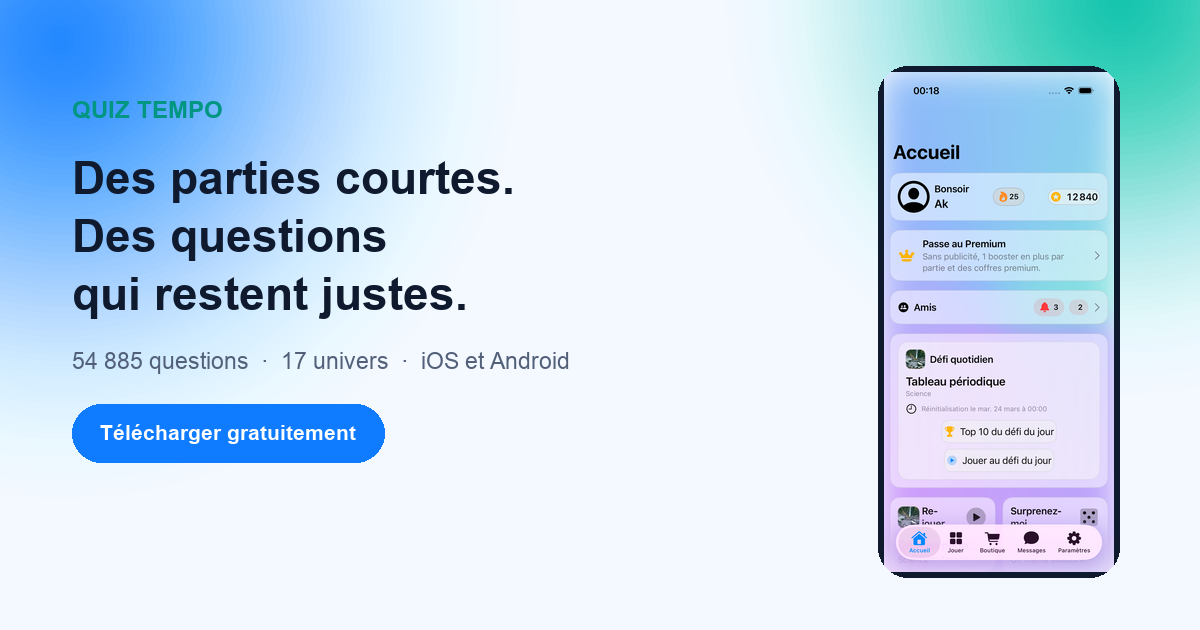
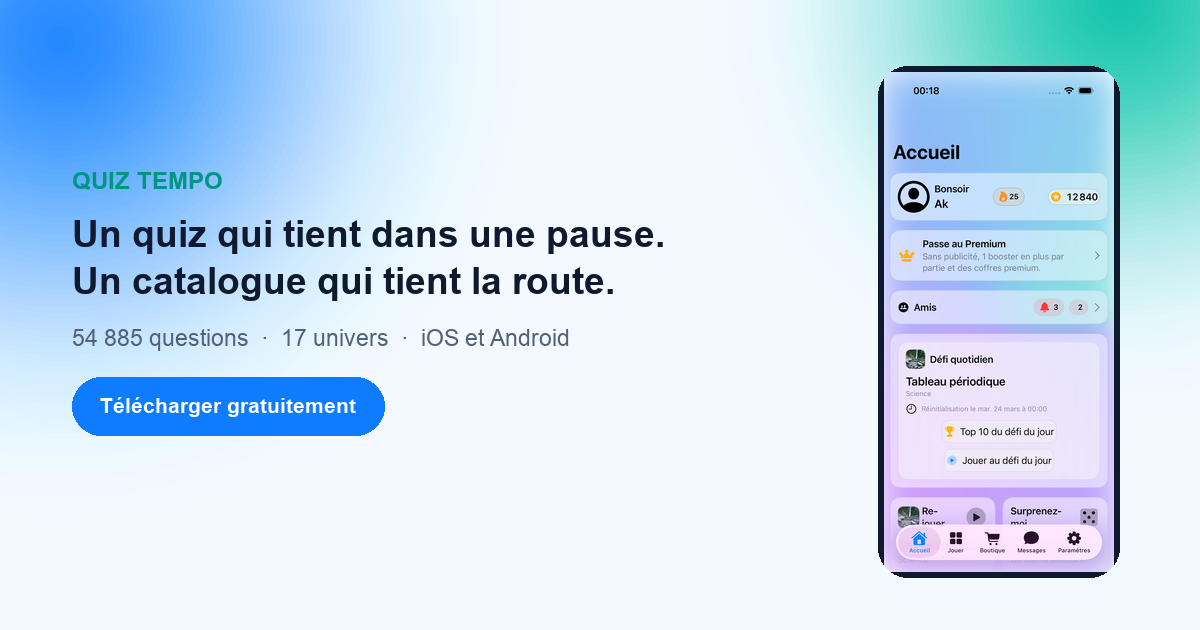
Rework the hero: new headline, and make it fit on a laptop screen
The hero was 1052px tall, so on a 900px laptop the CTA and the three key
figures sat below the fold: the visitor saw an oversized headline, a phone,
and nothing to click.

Root cause was the phone. A screenshot is 2.17:1, and .phone-stack was 420px
wide, so it rendered 894px tall against a ~460px copy column. align-items:
center then split the 434px difference above and below the text, which is
where the 294px of dead space above the eyebrow came from — not padding.

  phone   894px -> 633px   (.phone-stack 420px -> 300px)
  h1     57.6px -> 44px    (capped at 2.75rem; 4 lines -> 3)
  hero   1052px -> 753px   (key figures now end at 651px, above the fold)

Headline: "Des parties courtes" sold the category, not the product. The
verification angle is a reassurance, not a desire — it removes a reason not to
install but gives no reason to want to — so it stays where it earns its keep,
in the section directly below, and the hero sells the offer instead. FR and EN
diverge deliberately here, as the ASO listings already do.

  FR  Un quiz qui tient dans une pause. Un catalogue qui tient la route.
  EN  Short enough for a coffee break. Deep enough to keep you honest.

og:images regenerated with the new headline, breaking at the sentence boundary
so the two-beat parallel survives. sizes hints corrected to the 300px phone.

Changed region(s): [[0.0617, 0.2413, 0.555, 0.754], [0.0617, 0.1508, 0.185, 0.2111]]

diff --git a/css/styles.css b/css/styles.css
@@ -207,19 +207,21 @@ a:hover {
 }
 
 .hero {
-  padding-top: 86px;
+  padding-top: 48px;
 }
 
 .hero-grid {
   display: grid;
-  grid-template-columns: 1.08fr 0.92fr;
-  gap: 40px;
+  grid-template-columns: 1.15fr 0.85fr;
+  gap: 48px;
   align-items: center;
 }
 
 .hero-copy h1 {
-  margin-top: 14px;
-  font-size: clamp(2rem, 4.8vw, 3.6rem);
+  margin-top: 12px;
+  /* A phone shot is 2.17:1, so it always out-heights the copy column. Keeping
+     the h1 under ~3 lines is what stops the CTA falling below the fold. */
+  font-size: clamp(1.9rem, 3.4vw, 2.75rem);
 }
 
 .lead {
@@ -281,12 +283,13 @@ a:hover {
 
 .hero-visual {
   position: relative;
-  min-height: 520px;
 }
 
 .phone-stack {
   position: relative;
-  width: min(100%, 420px);
+  /* 300px x 2.17 = ~650px tall. At the old 420px it rendered ~913px, which
+     centred the copy against dead space and pushed the CTA off screen. */
+  width: min(100%, 300px);
   margin-inline: auto;
 }
 

diff --git a/en/index.html b/en/index.html
@@ -17,7 +17,7 @@
   <meta property="og:title" content="Quiz Tempo - Trivia That Stays Right, on iOS and Android" />
   <meta property="og:description" content="54,885 questions reviewed and corrected, 17 theme universes, a daily challenge, and friend challenges." />
   <meta property="og:image" content="https://quiztempo.com/assets/og-en.png" />
-  <meta property="og:image:alt" content="Quiz Tempo — Short sessions. Answers that stay right." />
+  <meta property="og:image:alt" content="Quiz Tempo — Short enough for a coffee break. Deep enough to keep you honest." />
   <meta property="og:image:width" content="1200" />
   <meta property="og:image:height" content="630" />
   <meta property="og:url" content="https://quiztempo.com/en/" />
@@ -63,8 +63,8 @@
       <div class="container hero-grid">
         <div class="hero-copy reveal">
           <p class="eyebrow">General knowledge trivia on mobile</p>
-          <h1>Short sessions. Answers that stay right.</h1>
-          <p class="lead">54,885 questions across 17 theme universes, reviewed and corrected on an ongoing basis. Play solo, take the daily challenge, and challenge your friends whenever you want.</p>
+          <h1>Short enough for a coffee break. Deep enough to keep you honest.</h1>
+          <p class="lead">54,885 questions across 17 universes. Solo, the daily challenge, or a challenge to a friend.</p>
           <div class="cta-row">
             <a class="btn primary" href="../go/?src=hero_en">Download free</a>
             <a class="btn" href="themes/">Explore themes</a>
@@ -77,8 +77,8 @@
         </div>
         <div class="hero-visual reveal" style="--delay: 120ms;">
           <div class="phone-stack" aria-hidden="true">
-            <img class="shot shot-main" src="../assets/screens/en/home.webp" srcset="../assets/screens/en/optimized/home-640.webp 640w, ../assets/screens/en/home.webp 1206w" sizes="(max-width: 900px) 90vw, 420px" alt="Quiz Tempo home screen" loading="eager" />
-            <img class="shot shot-back" src="../assets/screens/en/question.webp" srcset="../assets/screens/en/optimized/question-640.webp 640w, ../assets/screens/en/question.webp 1206w" sizes="(max-width: 900px) 45vw, 240px" alt="Question gameplay screen" loading="lazy" />
+            <img class="shot shot-main" src="../assets/screens/en/home.webp" srcset="../assets/screens/en/optimized/home-640.webp 640w, ../assets/screens/en/home.webp 1206w" sizes="(max-width: 900px) 90vw, 300px" alt="Quiz Tempo home screen" loading="eager" />
+            <img class="shot shot-back" src="../assets/screens/en/question.webp" srcset="../assets/screens/en/optimized/question-640.webp 640w, ../assets/screens/en/question.webp 1206w" sizes="(max-width: 900px) 45vw, 174px" alt="Question gameplay screen" loading="lazy" />
           </div>
         </div>
       </div>

diff --git a/index.html b/index.html
@@ -17,7 +17,7 @@
   <meta property="og:title" content="Quiz Tempo - Quiz de culture générale sur iOS et Android" />
   <meta property="og:description" content="54 885 questions relues et corrigées, 17 univers, défi quotidien et défis entre amis." />
   <meta property="og:image" content="https://quiztempo.com/assets/og-fr.png" />
-  <meta property="og:image:alt" content="Quiz Tempo — Des parties courtes. Des questions qui restent justes." />
+  <meta property="og:image:alt" content="Quiz Tempo — Un quiz qui tient dans une pause. Un catalogue qui tient la route." />
   <meta property="og:image:width" content="1200" />
   <meta property="og:image:height" content="630" />
   <meta property="og:url" content="https://quiztempo.com/" />
@@ -63,8 +63,8 @@
       <div class="container hero-grid">
         <div class="hero-copy reveal">
           <p class="eyebrow">Quiz de culture générale sur mobile</p>
-          <h1>Des parties courtes. Des questions qui restent justes.</h1>
-          <p class="lead">54 885 questions sur 17 univers, relues et corrigées en continu. Jouez en solo, relevez le défi du jour, et défiez vos amis quand vous voulez.</p>
+          <h1>Un quiz qui tient dans une pause. Un catalogue qui tient la route.</h1>
+          <p class="lead">54 885 questions sur 17 univers. Solo, défi du jour, ou défi à un ami.</p>
           <div class="cta-row">
             <a class="btn primary" href="go/?src=hero_fr">Télécharger gratuitement</a>
             <a class="btn" href="themes/">Explorer les thèmes</a>
@@ -77,8 +77,8 @@
         </div>
         <div class="hero-visual reveal" style="--delay: 120ms;">
           <div class="phone-stack" aria-hidden="true">
-            <img class="shot shot-main" src="assets/screens/fr/home.webp" srcset="assets/screens/fr/optimized/home-640.webp 640w, assets/screens/fr/home.webp 1206w" sizes="(max-width: 900px) 90vw, 420px" alt="Accueil Quiz Tempo" loading="eager" />
-            <img class="shot shot-back" src="assets/screens/fr/question.webp" srcset="assets/screens/fr/optimized/question-640.webp 640w, assets/screens/fr/question.webp 1206w" sizes="(max-width: 900px) 45vw, 240px" alt="Question en partie" loading="lazy" />
+            <img class="shot shot-main" src="assets/screens/fr/home.webp" srcset="assets/screens/fr/optimized/home-640.webp 640w, assets/screens/fr/home.webp 1206w" sizes="(max-width: 900px) 90vw, 300px" alt="Accueil Quiz Tempo" loading="eager" />
+            <img class="shot shot-back" src="assets/screens/fr/question.webp" srcset="assets/screens/fr/optimized/question-640.webp 640w, assets/screens/fr/question.webp 1206w" sizes="(max-width: 900px) 45vw, 174px" alt="Question en partie" loading="lazy" />
           </div>
         </div>
       </div>

diff --git a/contact.html b/contact.html
@@ -17,7 +17,7 @@
   <meta property="og:title" content="Contact - Quiz Tempo" />
   <meta property="og:description" content="Contactez l'équipe Quiz Tempo." />
   <meta property="og:image" content="https://quiztempo.com/assets/og-fr.png" />
-  <meta property="og:image:alt" content="Quiz Tempo — Des parties courtes. Des questions qui restent justes." />
+  <meta property="og:image:alt" content="Quiz Tempo — Un quiz qui tient dans une pause. Un catalogue qui tient la route." />
   <meta property="og:image:width" content="1200" />
   <meta property="og:image:height" content="630" />
   <meta property="og:url" content="https://quiztempo.com/contact.html" />

diff --git a/en/contact.html b/en/contact.html
@@ -17,7 +17,7 @@
   <meta property="og:title" content="Contact - Quiz Tempo" />
   <meta property="og:description" content="Contact the Quiz Tempo team." />
   <meta property="og:image" content="https://quiztempo.com/assets/og-en.png" />
-  <meta property="og:image:alt" content="Quiz Tempo — Short sessions. Answers that stay right." />
+  <meta property="og:image:alt" content="Quiz Tempo — Short enough for a coffee break. Deep enough to keep you honest." />
   <meta property="og:image:width" content="1200" />
   <meta property="og:image:height" content="630" />
   <meta property="og:url" content="https://quiztempo.com/en/contact.html" />

diff --git a/en/privacy.html b/en/privacy.html
@@ -17,7 +17,7 @@
   <meta property="og:title" content="Privacy Policy - Quiz Tempo" />
   <meta property="og:description" content="Privacy Policy for Quiz Tempo." />
   <meta property="og:image" content="https://quiztempo.com/assets/og-en.png" />
-  <meta property="og:image:alt" content="Quiz Tempo — Short sessions. Answers that stay right." />
+  <meta property="og:image:alt" content="Quiz Tempo — Short enough for a coffee break. Deep enough to keep you honest." />
   <meta property="og:image:width" content="1200" />
   <meta property="og:image:height" content="630" />
   <meta property="og:url" content="https://quiztempo.com/en/privacy.html" />

diff --git a/en/terms.html b/en/terms.html
@@ -17,7 +17,7 @@
   <meta property="og:title" content="Terms of Service - Quiz Tempo" />
   <meta property="og:description" content="Terms of Service for Quiz Tempo." />
   <meta property="og:image" content="https://quiztempo.com/assets/og-en.png" />
-  <meta property="og:image:alt" content="Quiz Tempo — Short sessions. Answers that stay right." />
+  <meta property="og:image:alt" content="Quiz Tempo — Short enough for a coffee break. Deep enough to keep you honest." />
   <meta property="og:image:width" content="1200" />
   <meta property="og:image:height" content="630" />
   <meta property="og:url" content="https://quiztempo.com/en/terms.html" />

diff --git a/en/themes/cinema.html b/en/themes/cinema.html
@@ -13,7 +13,7 @@
   <meta property="og:title" content="Cinema Quiz - Movie Quotes, Oscars, Directors, Classics | Quiz Tempo" />
   <meta property="og:description" content="Cinema quiz with movie quotes, iconic films, directors, cast knowledge, and decade-based categories." />
   <meta property="og:image" content="https://quiztempo.com/assets/og-en.png" />
-  <meta property="og:image:alt" content="Quiz Tempo — Short sessions. Answers that stay right." />
+  <meta property="og:image:alt" content="Quiz Tempo — Short enough for a coffee break. Deep enough to keep you honest." />
   <meta property="og:image:width" content="1200" />
   <meta property="og:image:height" content="630" />
   <meta property="og:url" content="https://quiztempo.com/en/themes/cinema.html" />

diff --git a/en/themes/general-knowledge.html b/en/themes/general-knowledge.html
@@ -13,7 +13,7 @@
   <meta property="og:title" content="General Knowledge Quiz - Mixed Questions and Daily Progress | Quiz Tempo" />
   <meta property="og:description" content="General knowledge quiz with mixed topics, society, world facts, science, and logic for daily progression." />
   <meta property="og:image" content="https://quiztempo.com/assets/og-en.png" />
-  <meta property="og:image:alt" content="Quiz Tempo — Short sessions. Answers that stay right." />
+  <meta property="og:image:alt" content="Quiz Tempo — Short enough for a coffee break. Deep enough to keep you honest." />
   <meta property="og:image:width" content="1200" />
   <meta property="og:image:height" content="630" />
   <meta property="og:url" content="https://quiztempo.com/en/themes/general-knowledge.html" />

diff --git a/en/themes/history.html b/en/themes/history.html
@@ -13,7 +13,7 @@
   <meta property="og:title" content="History Quiz - Ancient History, World Wars, Key Dates | Quiz Tempo" />
   <meta property="og:description" content="History quiz covering ancient civilizations, revolutions, world wars, key dates, and major historical figures." />
   <meta property="og:image" content="https://quiztempo.com/assets/og-en.png" />
-  <meta property="og:image:alt" content="Quiz Tempo — Short sessions. Answers that stay right." />
+  <meta property="og:image:alt" content="Quiz Tempo — Short enough for a coffee break. Deep enough to keep you honest." />
   <meta property="og:image:width" content="1200" />
   <meta property="og:image:height" content="630" />
   <meta property="og:url" content="https://quiztempo.com/en/themes/history.html" />

diff --git a/en/themes/index.html b/en/themes/index.html
@@ -13,7 +13,7 @@
   <meta property="og:title" content="Quiz Tempo Themes - History, Cinema, Sports, Science, Music" />
   <meta property="og:description" content="Explore Quiz Tempo themes: history quiz, cinema quiz, sports quiz, science quiz, music quiz, and general knowledge." />
   <meta property="og:image" content="https://quiztempo.com/assets/og-en.png" />
-  <meta property="og:image:alt" content="Quiz Tempo — Short sessions. Answers that stay right." />
+  <meta property="og:image:alt" content="Quiz Tempo — Short enough for a coffee break. Deep enough to keep you honest." />
   <meta property="og:image:width" content="1200" />
   <meta property="og:image:height" content="630" />
   <meta property="og:url" content="https://quiztempo.com/en/themes/" />

diff --git a/en/themes/music.html b/en/themes/music.html
@@ -13,7 +13,7 @@
   <meta property="og:title" content="Music Quiz - Artists, Hits, Decades, Pop Culture | Quiz Tempo" />
   <meta property="og:description" content="Music quiz with artists, hit songs, decades, genres, and pop-culture references for solo or duel play." />
   <meta property="og:image" content="https://quiztempo.com/assets/og-en.png" />
-  <meta property="og:image:alt" content="Quiz Tempo — Short sessions. Answers that stay right." />
+  <meta property="og:image:alt" content="Quiz Tempo — Short enough for a coffee break. Deep enough to keep you honest." />
   <meta property="og:image:width" content="1200" />
   <meta property="og:image:height" content="630" />
   <meta property="og:url" content="https://quiztempo.com/en/themes/music.html" />